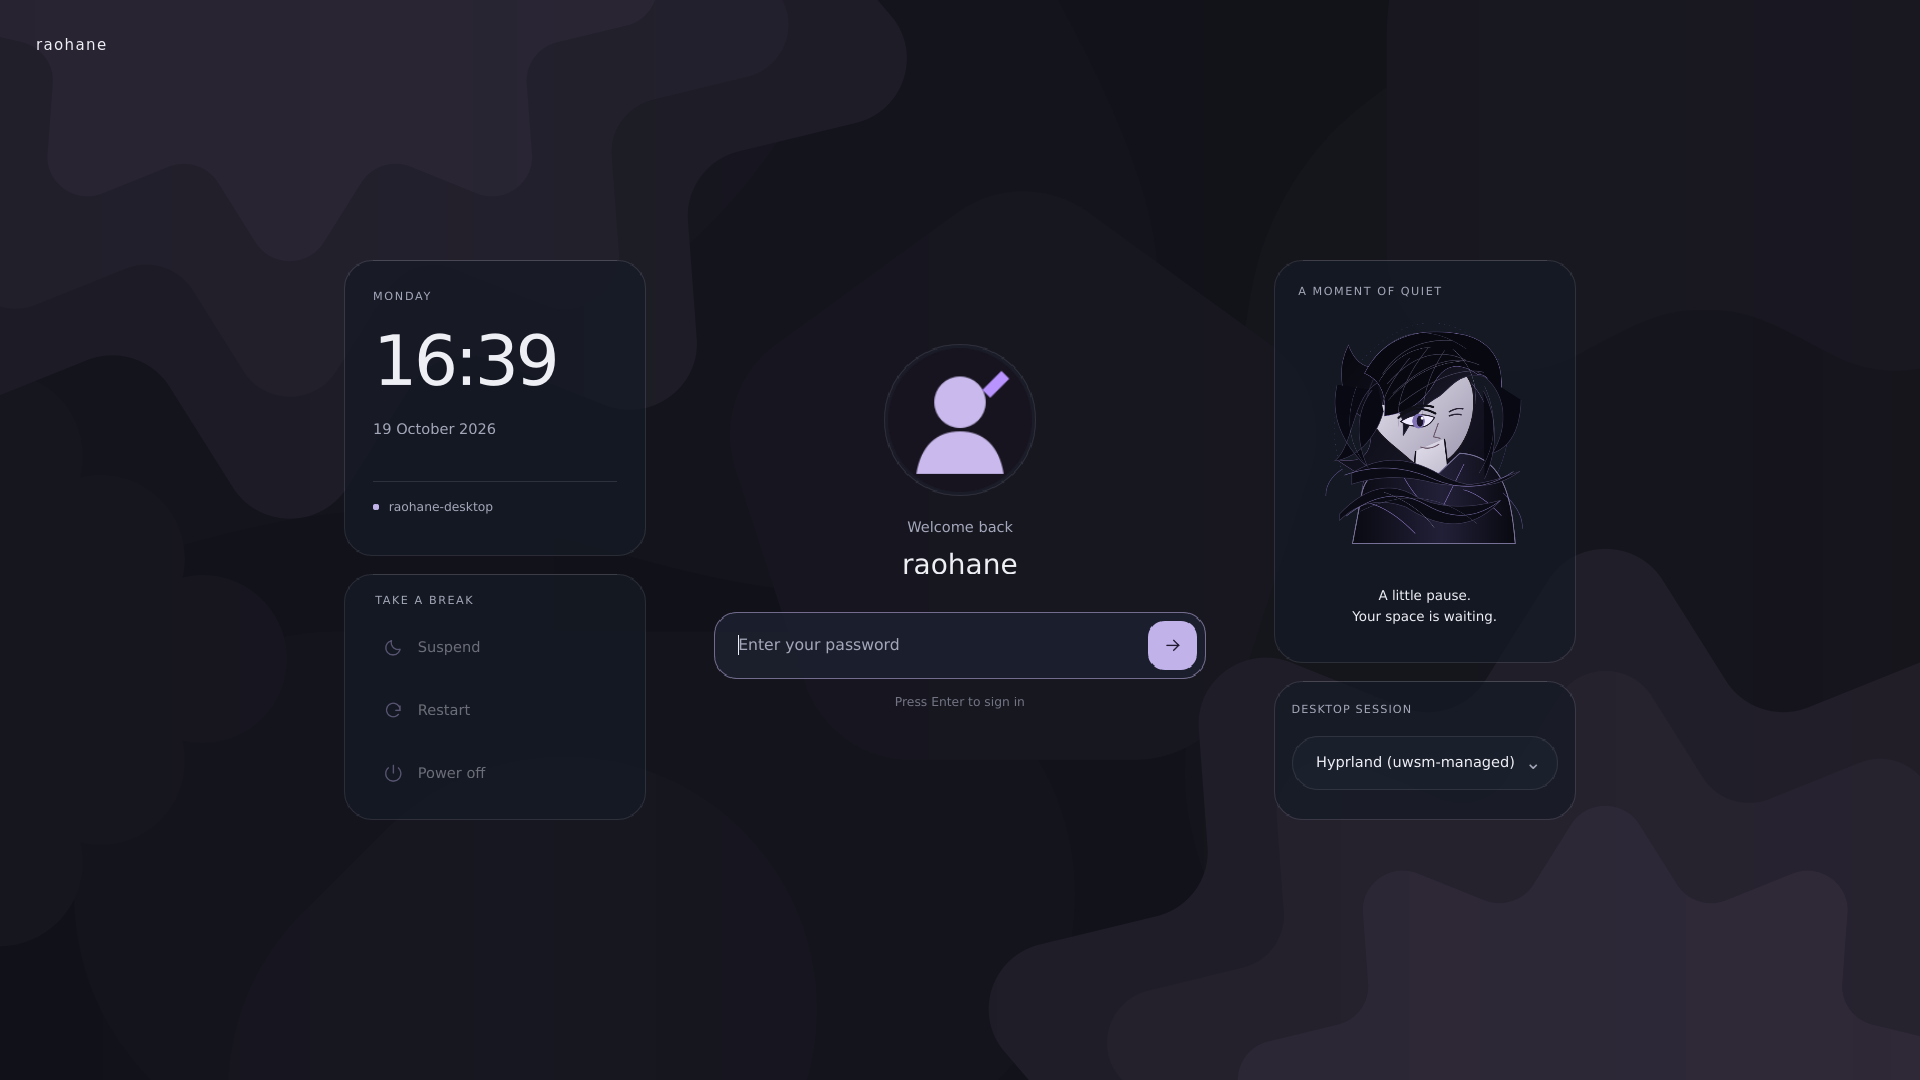
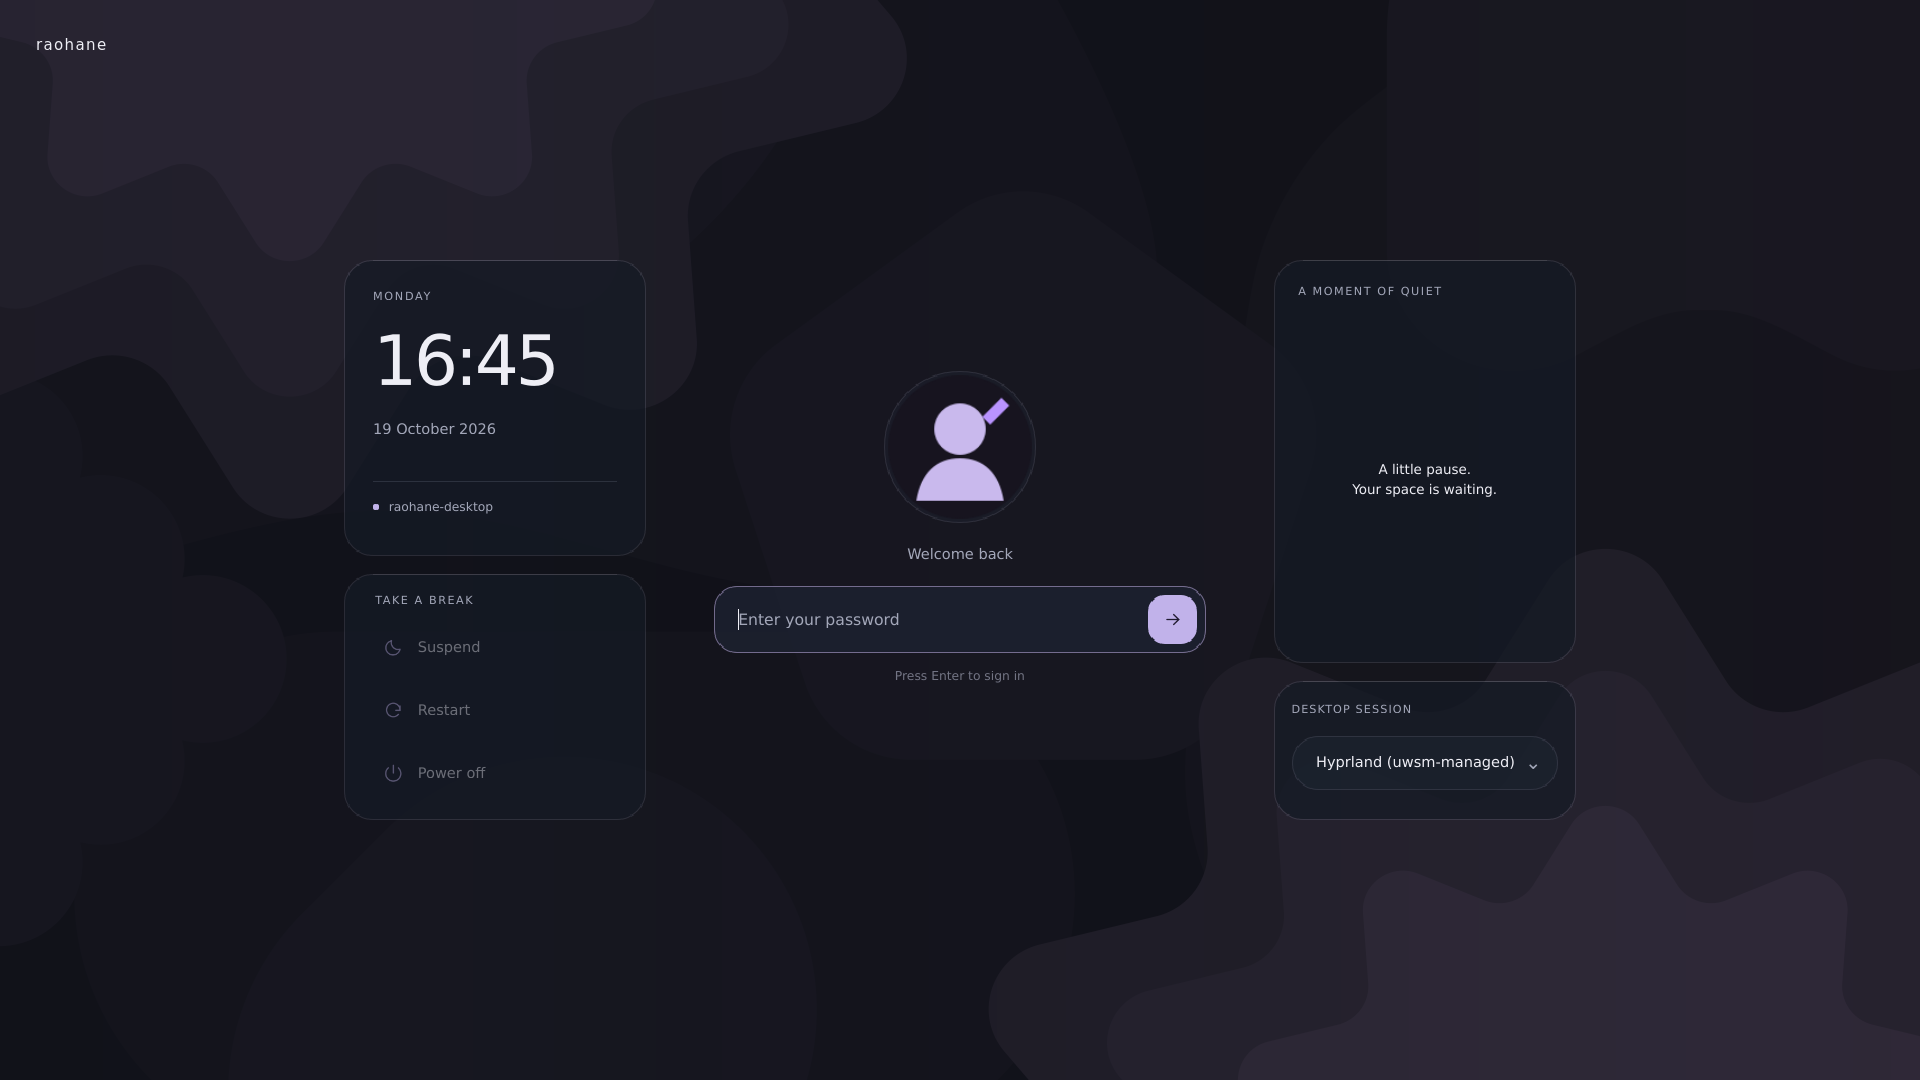
design(sddm): remove character and hide remembered account name

diff --git a/display-manager/sddm/raohane/Main.qml b/display-manager/sddm/raohane/Main.qml
@@ -13,6 +13,7 @@ Rectangle {
     property bool leaving: false
     property bool pending: false
     property bool failed: false
+    property bool accountRequired: !String(userModel.lastUser || "").trim().length
     property string message: ""
     readonly property bool reducedMotion: String(config.ReduceMotion || "") === "true"
     readonly property string backgroundImage: String(config.wallpaper || config.Background
@@ -28,6 +29,7 @@ Rectangle {
             return;
         if (!userField.text.trim().length) {
             message = qsTr("Enter your user name");
+            root.accountRequired = true;
             userField.forceActiveFocus();
             return;
         }
@@ -360,8 +362,10 @@ Rectangle {
                 Controls.TextField {
                     id: userField
                     objectName: "userField"
+                    // Only ask for an account if SDDM has no remembered user.
+                    visible: root.accountRequired
                     width: parent.width - 48
-                    height: 44
+                    height: visible ? 44 : 0
                     anchors.horizontalCenter: parent.horizontalCenter
                     text: String(userModel.lastUser || "")
                     placeholderText: qsTr("User name")
@@ -483,29 +487,16 @@ Rectangle {
                         letterSpacing: 1.4
                     }
                 }
-                Image {
-                    anchors {
-                        left: parent.left
-                        right: parent.right
-                        top: parent.top
-                        bottom: dialogue.top
-                        margins: 24
-                        topMargin: 52
-                    }
-                    source: String(config.Mascot || "mascot.svg")
-                    fillMode: Image.PreserveAspectFit
-                    sourceSize.width: 480
-                    asynchronous: true
-                }
                 Rectangle {
                     id: dialogue
                     anchors {
                         left: parent.left
                         right: parent.right
+                        top: parent.top
                         bottom: parent.bottom
                         margins: 20
+                        topMargin: 52
                     }
-                    height: 62
                     radius: 18
                     color: "transparent"
                     Text {

diff --git a/scripts/test-sddm-theme.py b/scripts/test-sddm-theme.py
@@ -50,7 +50,6 @@ config.insert("ReduceMotion", "true")
 config.insert("wallpaper", "")
 config.insert("Background", "background.png")
 config.insert("Avatar", "avatar.svg")
-config.insert("Mascot", "mascot.svg")
 user.insert("lastUser", "raohane")
 keyboard.insert("capsLock", False)
 view = QQuickView()
@@ -68,6 +67,7 @@ username = root.findChild(QObject, "userField")
 session = root.findChild(QObject, "sessionBox")
 scene = root.findChild(QObject, "scene")
 assert session.property("currentIndex") == 1
+assert not username.property("visible"), "remembered account name must stay hidden"
 for width, height in [(1920, 1080), (1366, 768), (800, 600)]:
     view.resize(width, height)
     QTest.qWait(300)
@@ -79,6 +79,7 @@ for width, height in [(1920, 1080), (1366, 768), (800, 600)]:
 username.setProperty("text", "")
 QMetaObject.invokeMethod(root, "authenticate")
 assert not proxy.calls
+assert username.property("visible"), "missing account must remain recoverable"
 username.setProperty("text", " raohane ")
 password.setProperty("text", "test-only")
 password.forceActiveFocus()

diff --git a/display-manager/sddm/README.md b/display-manager/sddm/README.md
@@ -4,7 +4,7 @@ The canonical theme is `display-manager/sddm/raohane`. Both installer names
 now use this source; the retired `login/sddm/raohane` copy must not return.
 
 The three-column layout pairs clock/power cards with a centered circular avatar
-and login form, plus a character/dialogue card and session picker on the right.
+and login form, plus a quiet text card and session picker on the right.
 Raohane supplies the graphite/lavender palette, keyboard-accessible controls,
 masked password, pending/error states and reduced-motion option.
 
@@ -43,17 +43,16 @@ SDDM is the pre-session login screen; it does not replace the shell lock screen.
 Do not restart SDDM from an active desktop to preview a theme.
 
 
-The installer reuses `assets/images/raohane-welcome-girl.png` from the checkout
-or installed shell if available, otherwise the bundled SVG character remains.
-It copies the login owner's `~/.face.icon` when available; otherwise a neutral
-avatar is used. `Avatar` and `Mascot` in the theme configuration select these
-assets. These are local images, not fabricated weather, telemetry or notifications.
-
+The installer copies the login owner's `~/.face.icon` when available; otherwise
+a neutral avatar is used. `Avatar` in the theme configuration selects this image.
+The decorative character has been removed. The remembered account is used for
+authentication without displaying its name; a name field appears only when SDDM
+has no remembered account, so first login remains possible.
 
 ### Visual refinement
 
 The login area uses a single password capsule with an integrated arrow action,
-a quiet editable account label and a smaller circular avatar. Side cards share
+a smaller circular avatar and no visible account label. Side cards share
 one radius, subtle borders and consistent line icons. Translucency is static;
 there are no blur passes or decorative background animation loops.
 
